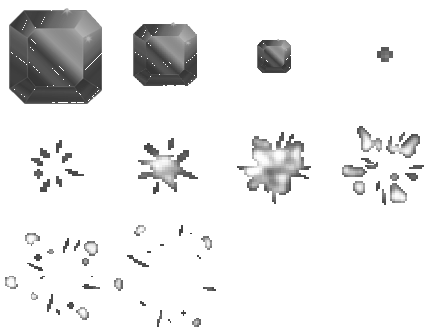
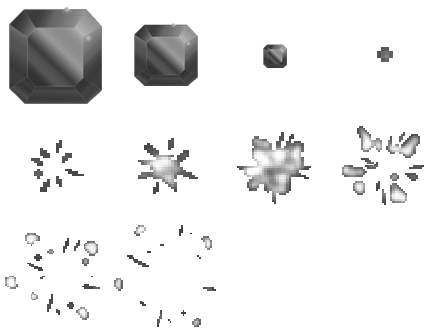
add crystal animation destroy

diff --git a/app/src/main/java/com/example/bricksGame/logic/LevelLogic.kt b/app/src/main/java/com/example/bricksGame/logic/LevelLogic.kt
@@ -163,10 +163,25 @@ class LevelLogic @Inject constructor(
 
             when (val slot = linePlaces[index].slot.value) {
                 is GameObjects.Brick -> {
-                    if (slot.baseModel.assetImage == comparedSlot.baseModel.assetImage) {
-                        wonPlaces.add(linePlaces[index])
+                    val sprite = slot.baseModel.sprite
+                    val comparedSprite = comparedSlot.baseModel.sprite
+
+                    if (sprite != null && comparedSprite != null) {
+
+                        if (sprite.imageSheet == comparedSprite.imageSheet) {
+                            wonPlaces.add(linePlaces[index])
+                        } else {
+                            break
+                        }
+
                     } else {
-                        break
+
+                        if (slot.baseModel.assetImage == comparedSlot.baseModel.assetImage) {
+                            wonPlaces.add(linePlaces[index])
+                        } else {
+                            break
+                        }
+
                     }
                 }
 
@@ -198,11 +213,24 @@ class LevelLogic @Inject constructor(
         for (index in startIndex - 1 downTo 0) {
             when (val slot = linePlaces[index].slot.value) {
                 is GameObjects.Brick -> {
+                    val sprite = slot.baseModel.sprite
+                    val comparedSprite = comparedSlot.baseModel.sprite
 
-                    if (slot.baseModel.assetImage == comparedSlot.baseModel.assetImage) {
-                        wonPlaces.add(linePlaces[index])
+                    if (sprite != null && comparedSprite != null) {
+
+                        if (sprite.imageSheet == comparedSprite.imageSheet) {
+                            wonPlaces.add(linePlaces[index])
+                        } else {
+                            break
+                        }
+
                     } else {
-                        break
+
+                        if (slot.baseModel.assetImage == comparedSlot.baseModel.assetImage) {
+                            wonPlaces.add(linePlaces[index])
+                        } else {
+                            break
+                        }
                     }
                 }
 
@@ -237,7 +265,7 @@ class LevelLogic @Inject constructor(
     }
 
     private fun onEndRound(wonPlaces: MutableList<PlaceOnField>, placeOnField: PlaceOnField) {
-println()
+        println()
         if (wasWinLine) {
             popupOnResetLine(placeOnField)
             onWinResetLine(wonPlaces)
@@ -264,7 +292,18 @@ println()
 
             when (val slot = place.slot.value) {
                 is GameObjects.Bonus -> resetPlace(place)
-                is GameObjects.Brick -> resetPlace(place)
+                is GameObjects.Brick -> {
+                    val sprite = slot.baseModel.sprite
+
+                    if (sprite != null) {
+
+                        slot.baseModel.startAnimation("destroy", false, place, needReset = true)
+
+                    } else {
+                        resetPlace(place)
+                    }
+                }
+
                 is GameObjects.Empty -> {}
                 is GameObjects.Leaves -> {
                     life = --slot.baseModel.life

diff --git a/app/src/main/java/com/example/bricksGame/logic/GameObjectBuilder.kt b/app/src/main/java/com/example/bricksGame/logic/GameObjectBuilder.kt
@@ -13,6 +13,8 @@ import com.example.bricksGame.gameObjects.Cords
 import com.example.bricksGame.gameObjects.GameObjects
 import com.example.bricksGame.gameObjects.PlaceOnField
 import com.example.bricksGame.helper.ScreenSize
+import com.example.bricksGame.helper.Sprite
+import com.example.bricksGame.helper.SpriteAnimation
 import dagger.hilt.android.qualifiers.ApplicationContext
 import javax.inject.Inject
 import javax.inject.Singleton
@@ -24,6 +26,7 @@ class GameObjectBuilder @Inject constructor(
     private val screenSize: ScreenSize,
     private val gameConfig: GameConfig,
     private val levelData: LevelData,
+    private val spriteAnimation: SpriteAnimation
 ) {
     private var brickId = 0L
 
@@ -88,8 +91,27 @@ class GameObjectBuilder @Inject constructor(
             )
         )
 
-        newBrick.baseModel.assetImage = getRandomImage(level)
+        baseModel.sprite = getRandomSprite(level)
+
+//        newBrick.baseModel.assetImage = getRandomImage(level)
         return newBrick
+    }
+
+    private fun getRandomSprite(level: Level): Sprite? {
+
+        var maxColors = max(level.fieldColumn, level.fieldRow)
+
+        if (level.numberOfBricksToWin == 0) maxColors else maxColors += 1
+
+        if (gameConfig.spriteBrickList.elementAtOrNull(maxColors) == null) {
+            maxColors = gameConfig.spriteBrickList.size - 1
+        }
+//       maxColors = 2
+
+        val nameSprite = gameConfig.spriteBrickList[(0..maxColors).random()]
+
+        val sprite = spriteAnimation.getSprite(nameSprite)
+        return sprite
     }
 
     private fun getRandomImage(level: Level): Int {
@@ -136,7 +158,7 @@ class GameObjectBuilder @Inject constructor(
         val min = 0.001F
         val max = 0.7F
         newBonus.baseModel.alpha.value = ((Math.random() * (max - min) + min).toFloat())
-        newBonus.baseModel.alpha.value=1F
+        newBonus.baseModel.alpha.value = 1F
         return newBonus
     }
 }

diff --git a/app/src/main/java/com/example/bricksGame/components/levelGame/PortraitLayoutView.kt b/app/src/main/java/com/example/bricksGame/components/levelGame/PortraitLayoutView.kt
@@ -188,10 +188,11 @@ private fun BricksBlock(bricksViewModel: BricksViewModel = hiltViewModel()) {
                             }
                         }
                         .paint(
-                            painterResource(brick.baseModel.assetImage),
+                            painter = brick.baseModel.getBitmapPainter(),
                             sizeToIntrinsics = true,
                             contentScale = ContentScale.FillBounds
                         )
+
                         .clip(RoundedCornerShape(bricksViewModel.brickCorner))
                         .onGloballyPositioned { coordinates ->
                             bricksViewModel.setGloballyPosition(brick, coordinates)

diff --git a/app/src/main/java/com/example/bricksGame/config/GameConfig.kt b/app/src/main/java/com/example/bricksGame/config/GameConfig.kt
@@ -95,6 +95,19 @@ class GameConfig @Inject constructor() {
         R.drawable.dark_brick,
     )
 
+    val spriteBrickList = listOf(
+        "blue_brick.json",
+        "bronze_brick.json",
+        "dark_blue_brick.json",
+        "dark_brick.json",
+        "gold_brick.json",
+        "green_brick.json",
+        "orange_brick.json",
+        "pink_brick.json",
+        "purple_brick.json",
+        "red_brick.json"
+    )
+
     val imagesWinLine = listOf(
         R.drawable.wow,
         R.drawable.mega,

diff --git a/app/src/main/java/com/example/bricksGame/gameObjects/BaseModel.kt b/app/src/main/java/com/example/bricksGame/gameObjects/BaseModel.kt
@@ -21,8 +21,8 @@ class BaseModel(var context: Context?) {
     var alpha: MutableState<Float> = mutableFloatStateOf(1f)
     var zIndex: MutableState<Float> = mutableFloatStateOf(0f)
     var life = 1
-    var hoverBorder= Color(0xFF01A817)
-    var defaultBorder= Color.Black
+    var hoverBorder = Color(0xFF01A817)
+    var defaultBorder = Color.Black
     var activeBorderColor: MutableState<Color> = mutableStateOf(defaultBorder)
 
     private var placeOnField: PlaceOnField? = null

diff --git a/app/src/main/java/com/example/bricksGame/config/LevelsConfig.kt b/app/src/main/java/com/example/bricksGame/config/LevelsConfig.kt
@@ -26,7 +26,7 @@ class LevelsConfig @Inject constructor(private var levelBuilder: LevelBuilder) {
             fieldColumn = 7,
             additionalBrick = 3,
             lastBrickToAdd = 0,
-            numberOfBricksToWin = 4,
+            numberOfBricksToWin = 2,
             negativeBonuses = listOf<Int>(2, 3),
             bonusFillSpeed = 0.05f,
             numberOfScoreToWin = 0,
